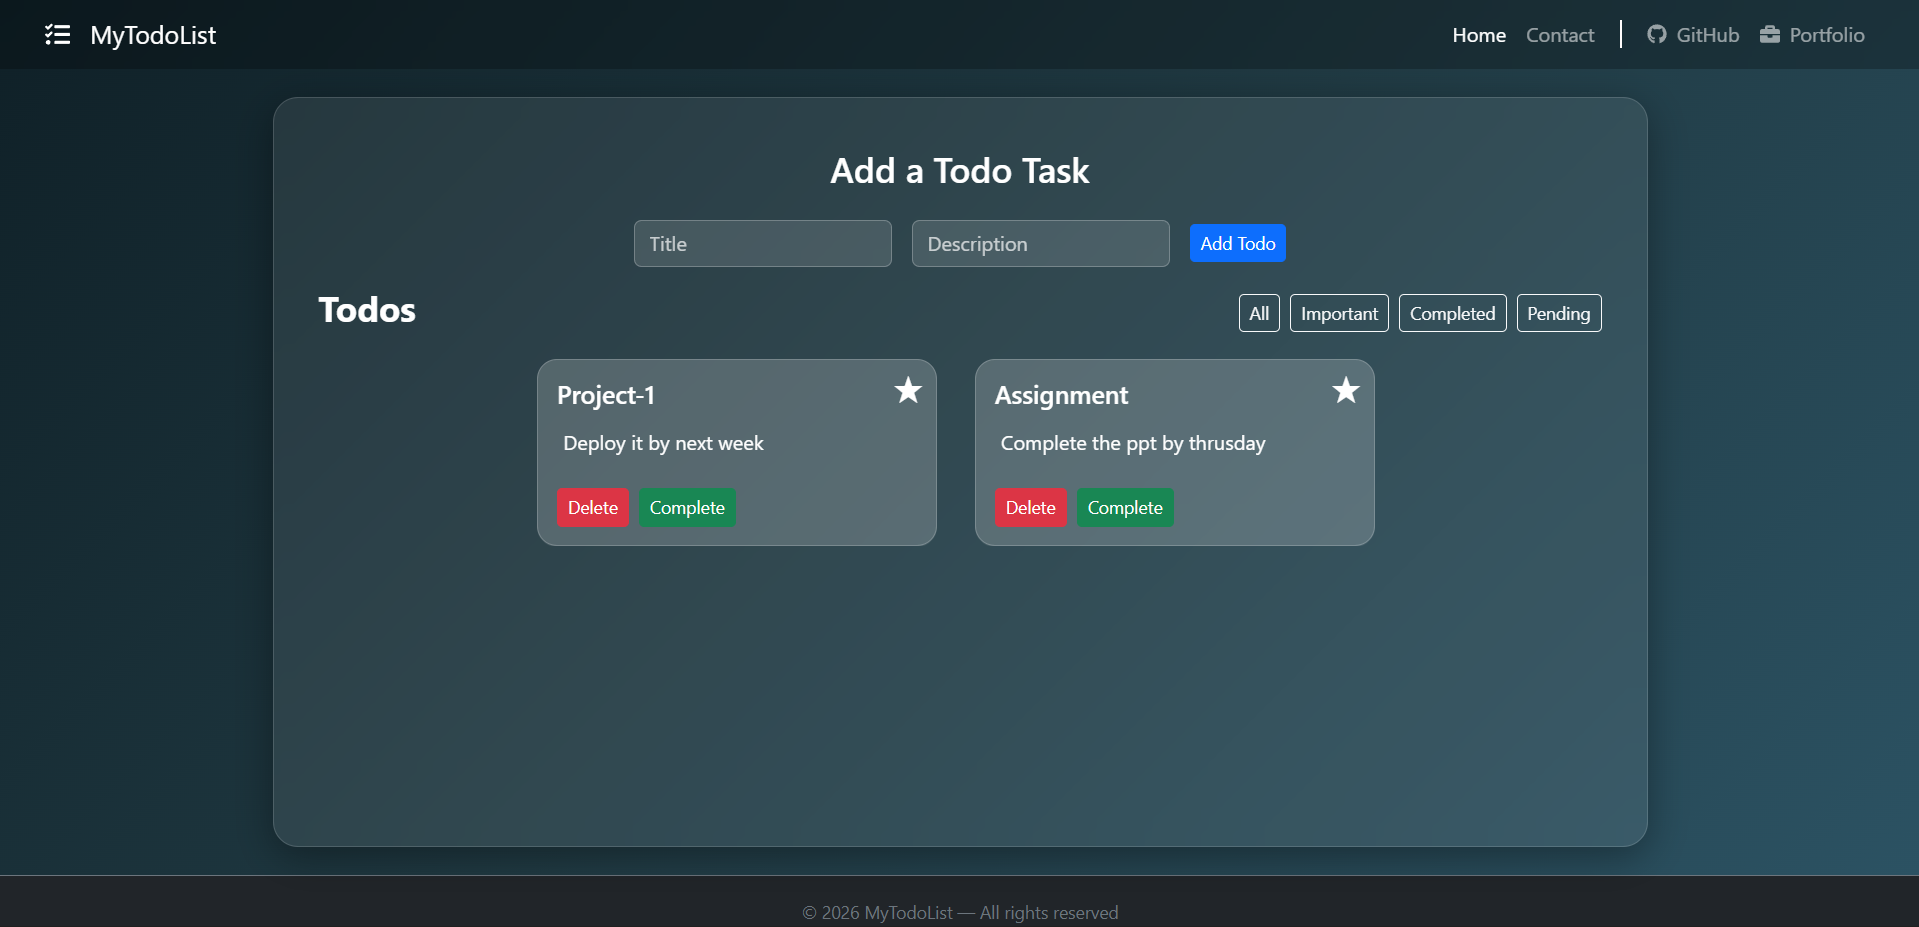
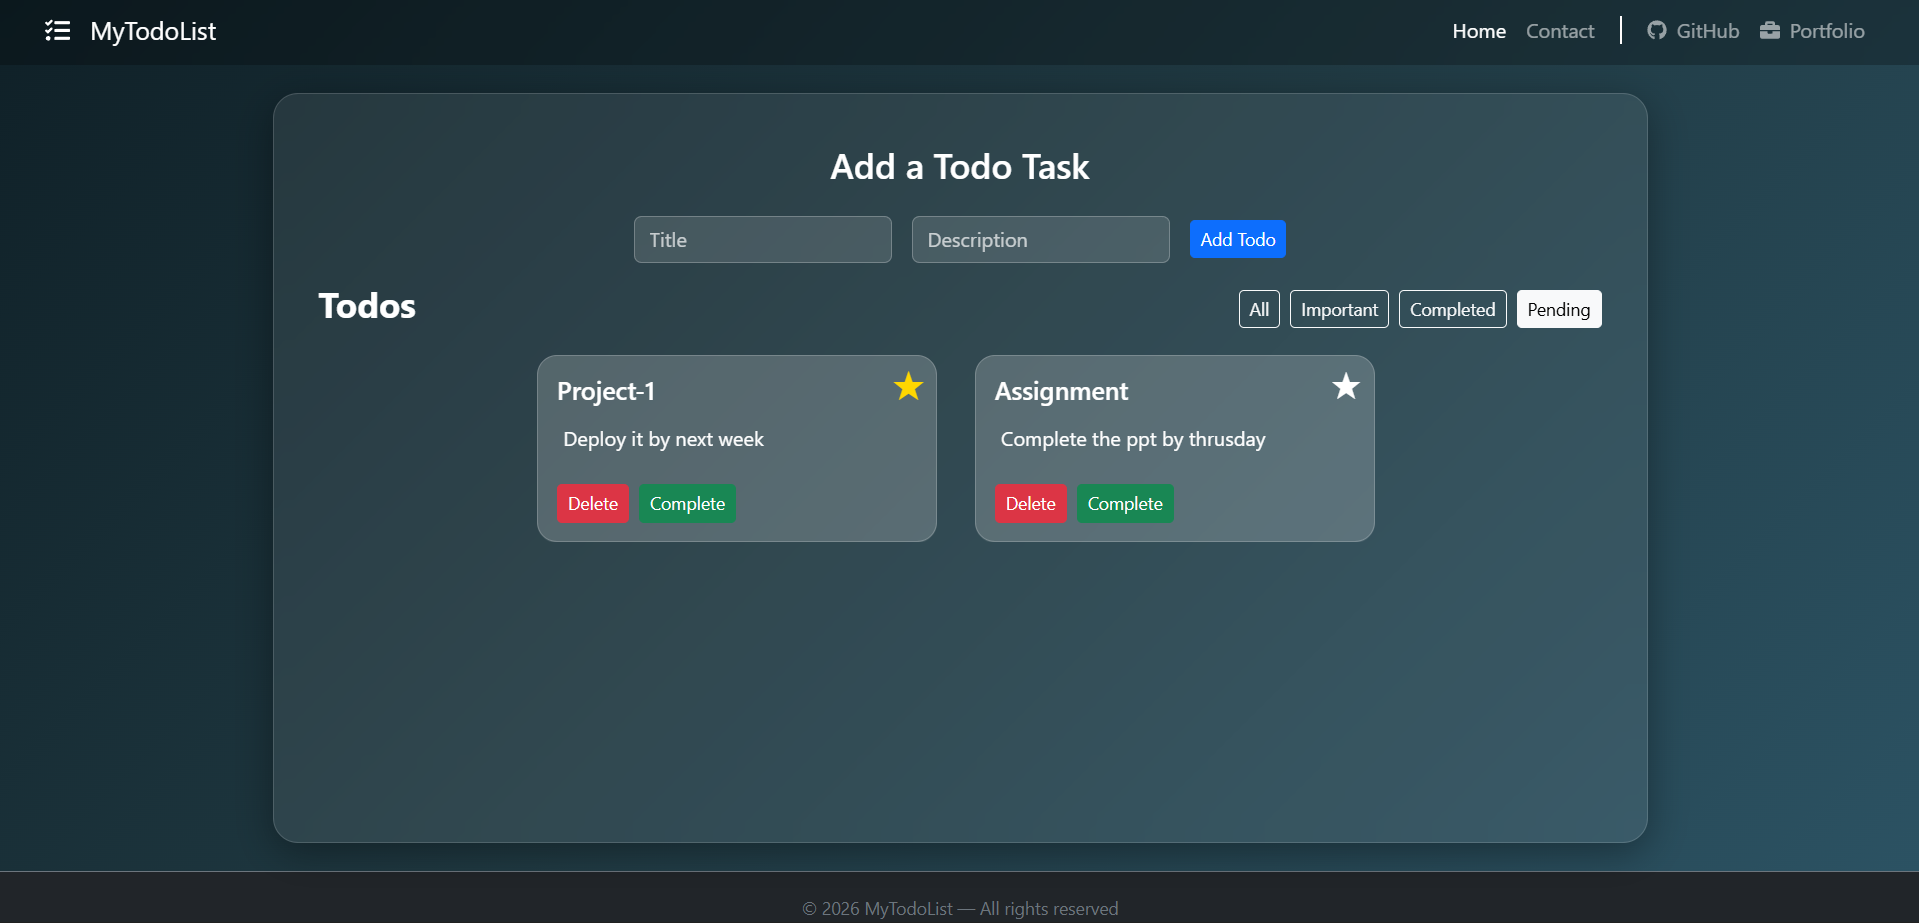
fixed bugs and updated readme

diff --git a/src/components/TodoHeader.js b/src/components/TodoHeader.js
@@ -13,9 +13,10 @@ export default function TodoHeader({ filter, setFilter }) {
       <div className="filter-bar d-flex gap-2">
         {filters.map((f) => (
           <button
+            aria-pressed={filter === f.key}
             key={f.key}
-            className={`btn btn-sm ${
-              filter === f.key ? "btn-primary" : "btn-outline-light"
+            className={`btn btn-sm btn-outline-light ${
+              filter === f.key ? "active" : ""
             }`}
             onClick={() => setFilter(f.key)}
           >

diff --git a/src/App.js b/src/App.js
@@ -88,7 +88,7 @@ function App() {
                   onAdd={onAdd}
                   toggleImp={toggleImp}
                   onComplete={onComplete}
-                  filter={Filter}
+                  Filter={Filter}
                   setFilter={setFilter}
                 />
               }

diff --git a/README.md b/README.md
@@ -20,9 +20,11 @@ Example:
 
 ![Todo App UI](public/ui-preview.png)
 
-You can add more screenshots if needed:
+![Task Filtering](public/Completed-view.png)
 
-![Task Filtering](assets/filter-view.png)
+![Task Filtering](public/Pending-view.png)
+
+![Task Filtering](public/Important-view.png)
 
 ---
 
